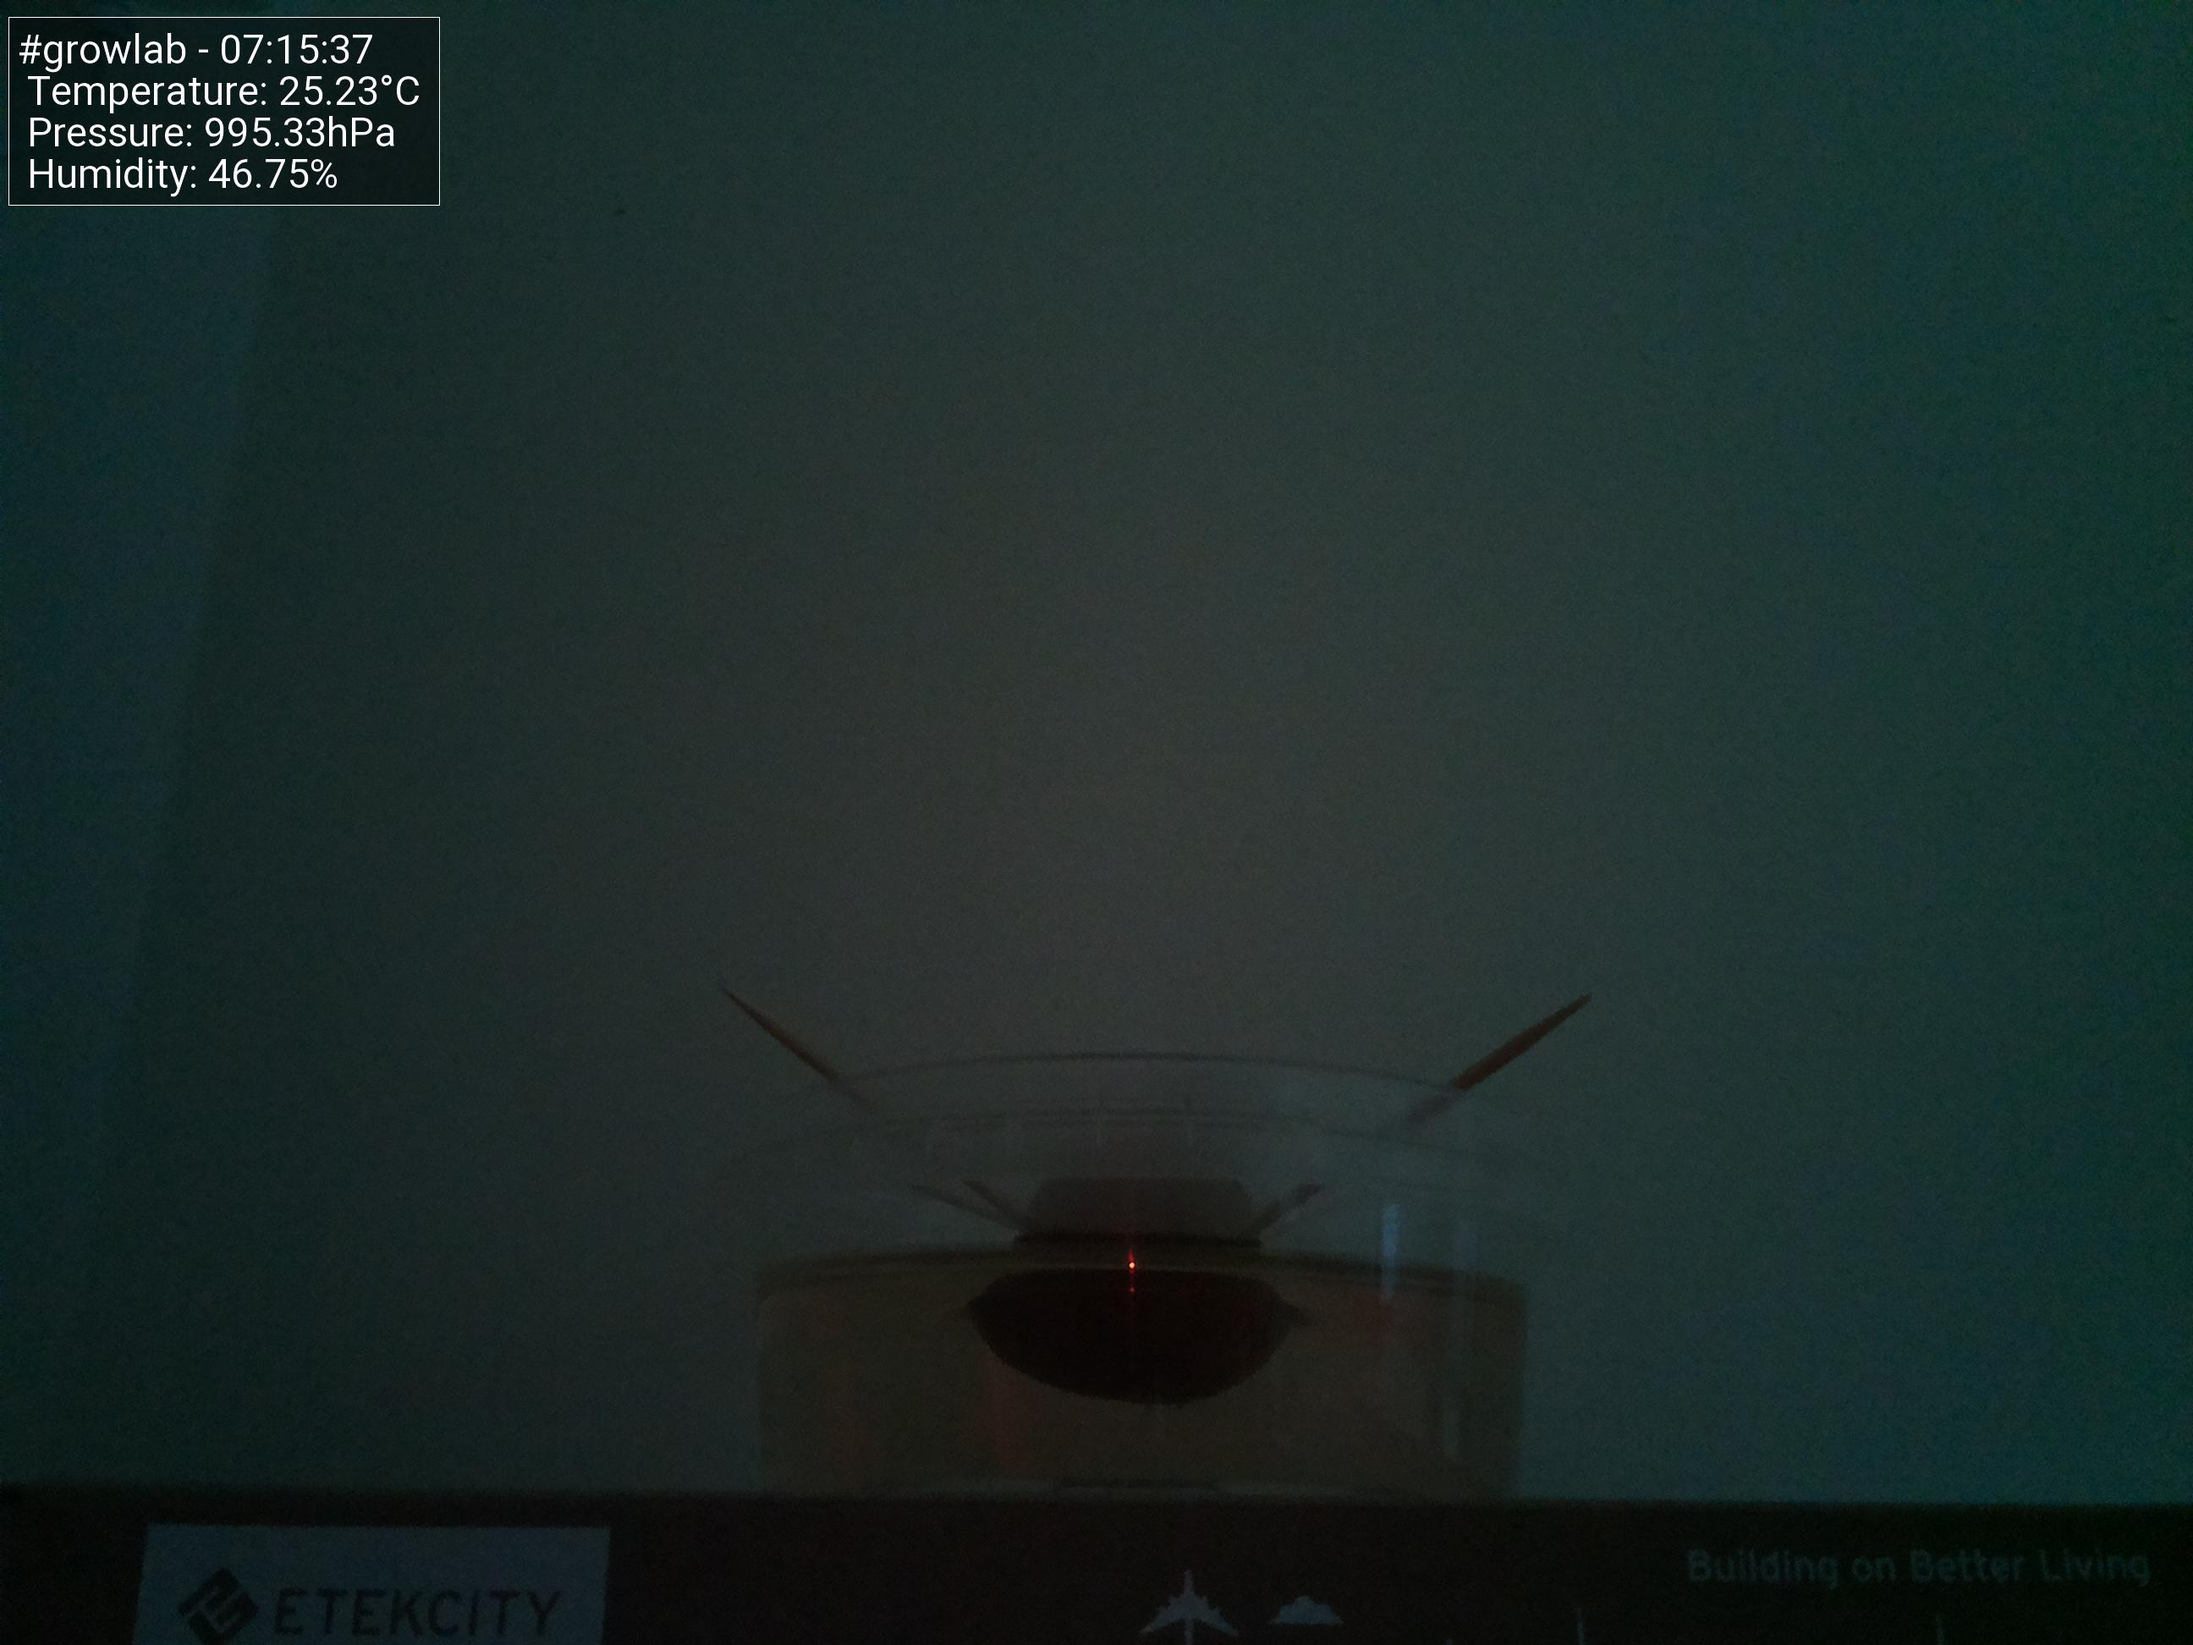
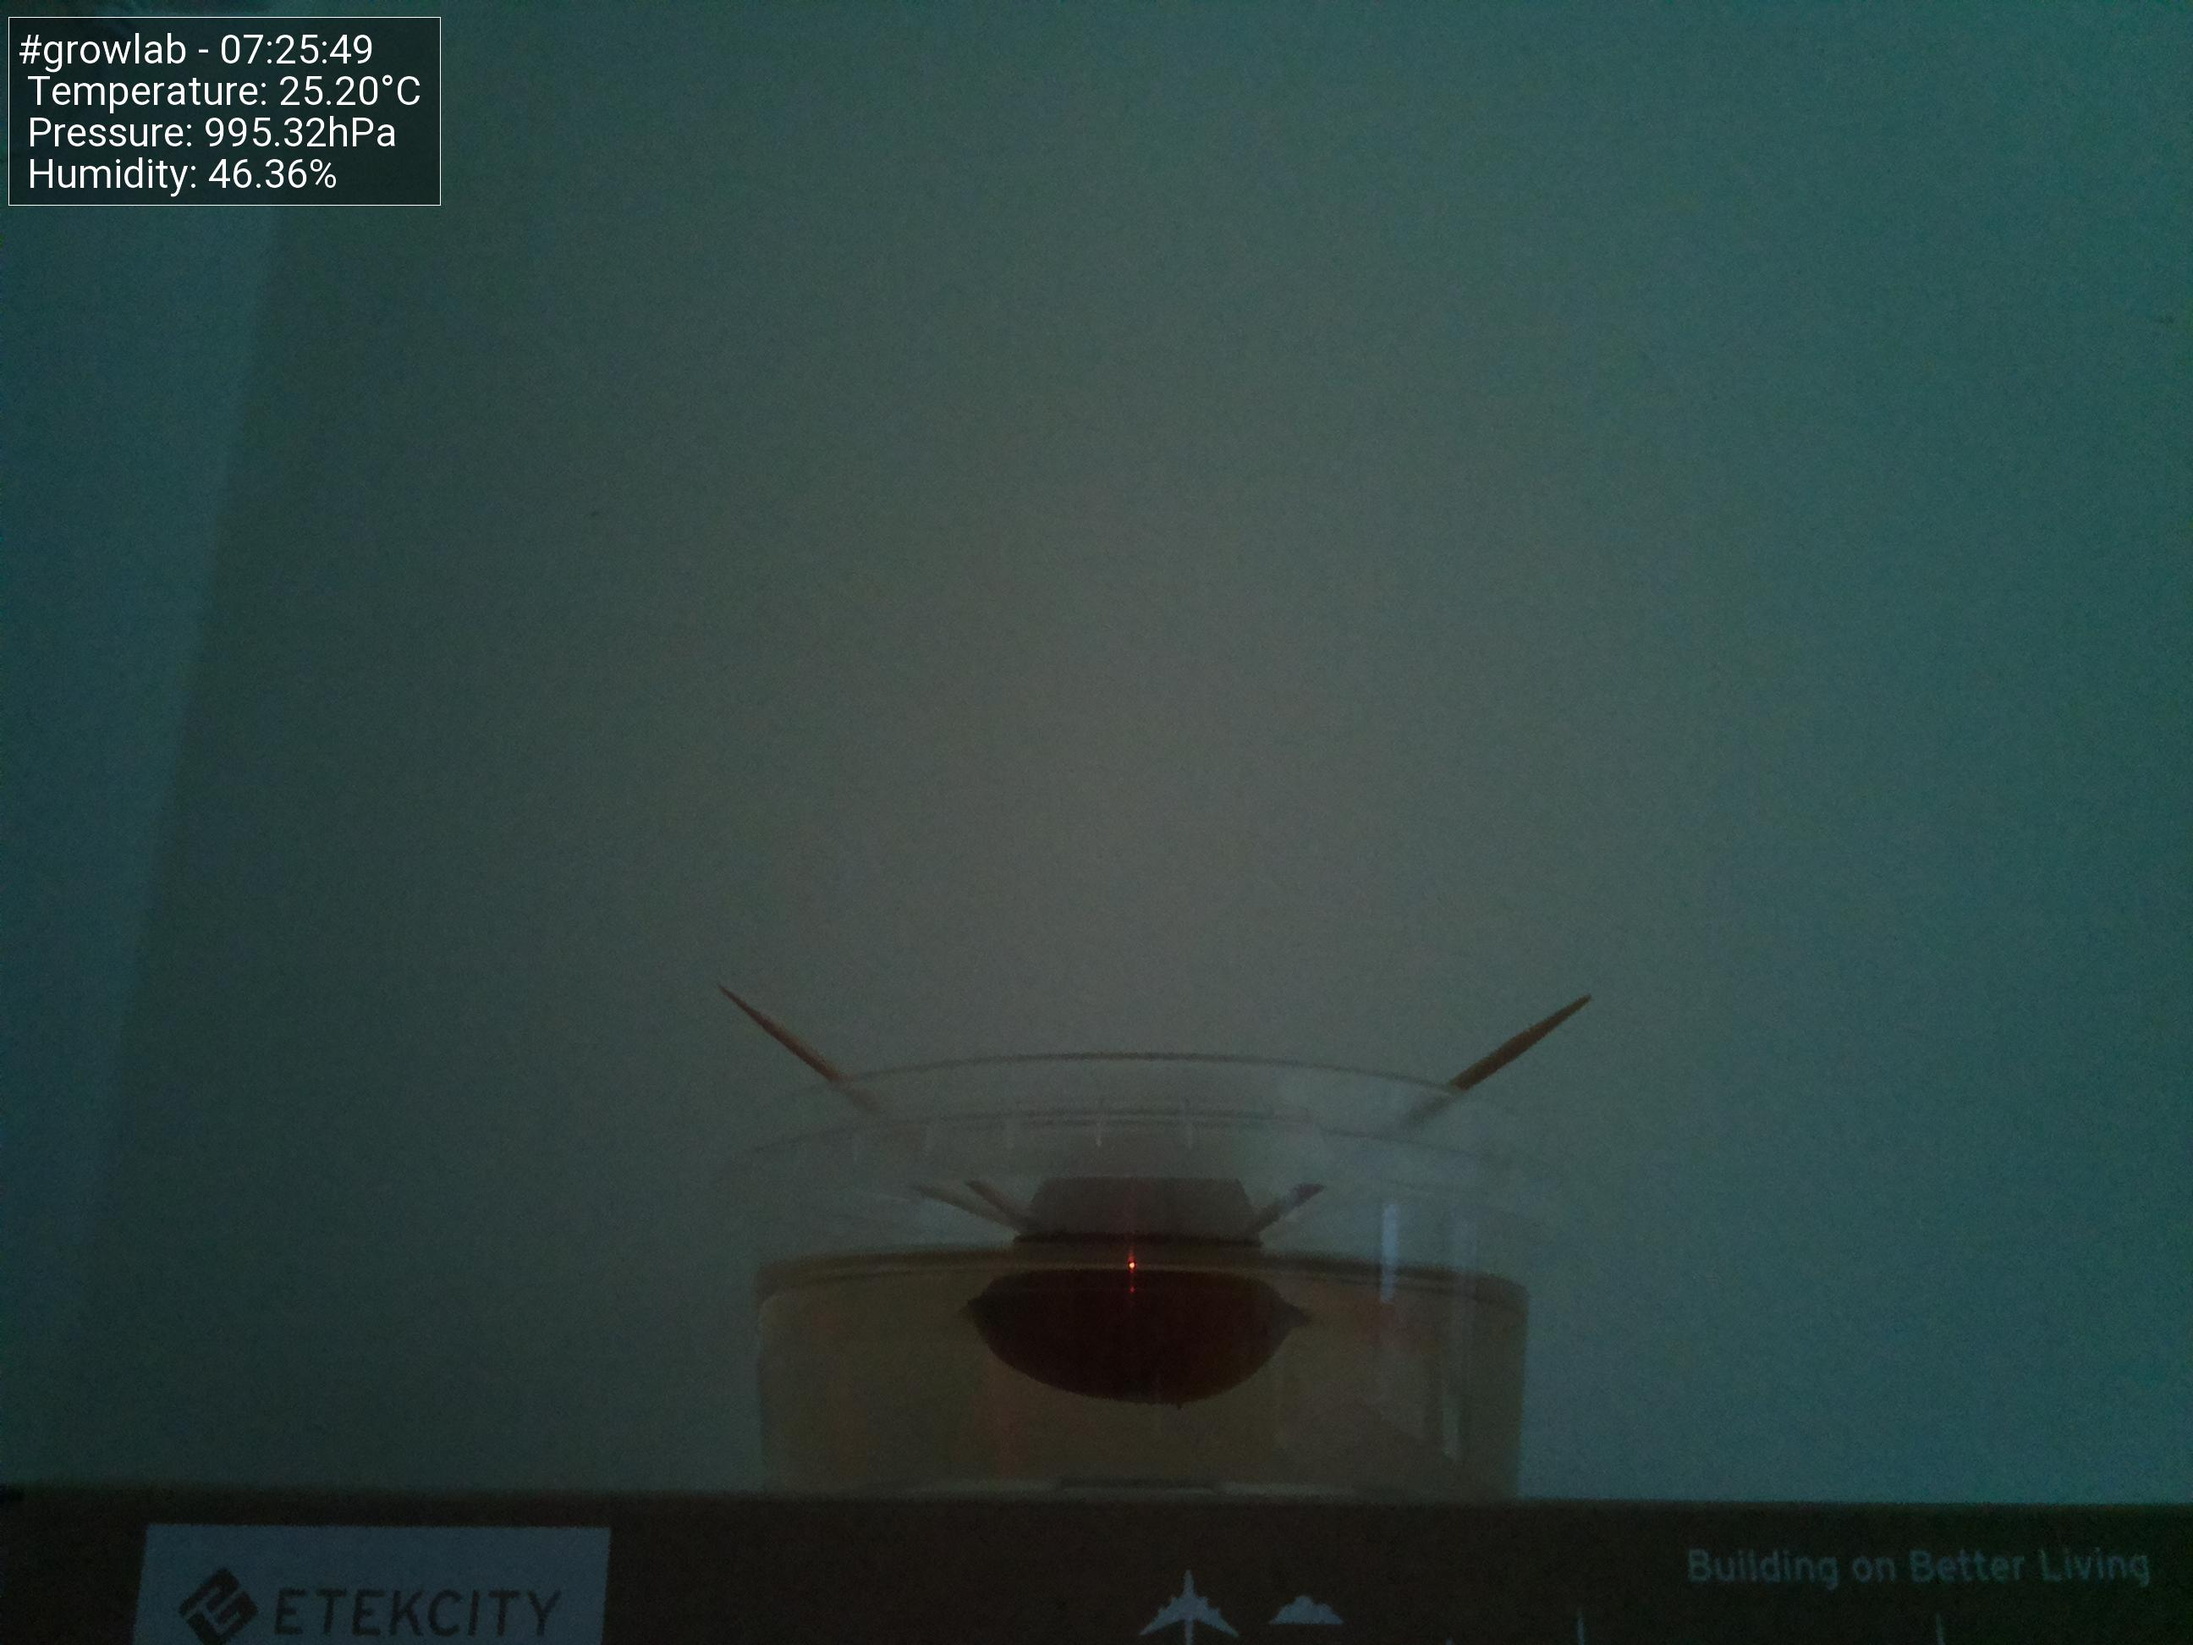
Update images at Mon 21 Jun 07:25:53 CEST 2021

diff --git a/docs/index.html b/docs/index.html
@@ -47,19 +47,19 @@
                         <tbody>
                             <tr>
                                 <td>Time</td>
-                                <td>07:15:37</td>
+                                <td>07:25:49</td>
                             </tr>
                             <tr>
                                 <td>Temperature</td>
-                                <td>25.23°C</td>
+                                <td>25.20°C</td>
                             </tr>
                             <tr>
                                 <td>Humidity</td>
-                                <td>46.75%</td>
+                                <td>46.36%</td>
                             </tr>
                             <tr>
                                 <td>Pressure</td>
-                                <td>995.33hPa</td>
+                                <td>995.32hPa</td>
                             </tr>
                         </tbody>
                     </table>
@@ -67,7 +67,7 @@
 
                 <h5>Latest image</h5>
                 <div style="width: 85%;">
-                            <img class="figure-img img-fluid rounded" src="./preview.jpg?uid=1624252542.0084212">
+                            <img class="figure-img img-fluid rounded" src="./preview.jpg?uid=1624253153.249478">
                 </div>
             </div>
         </div>
